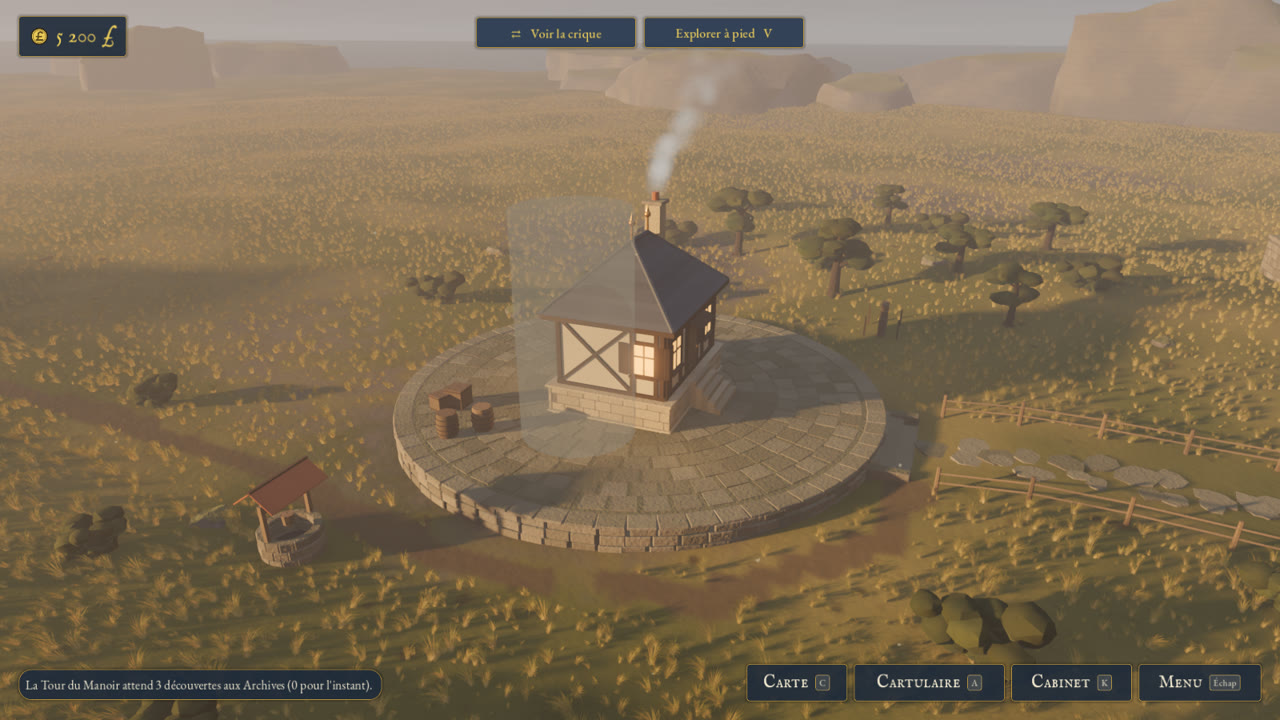
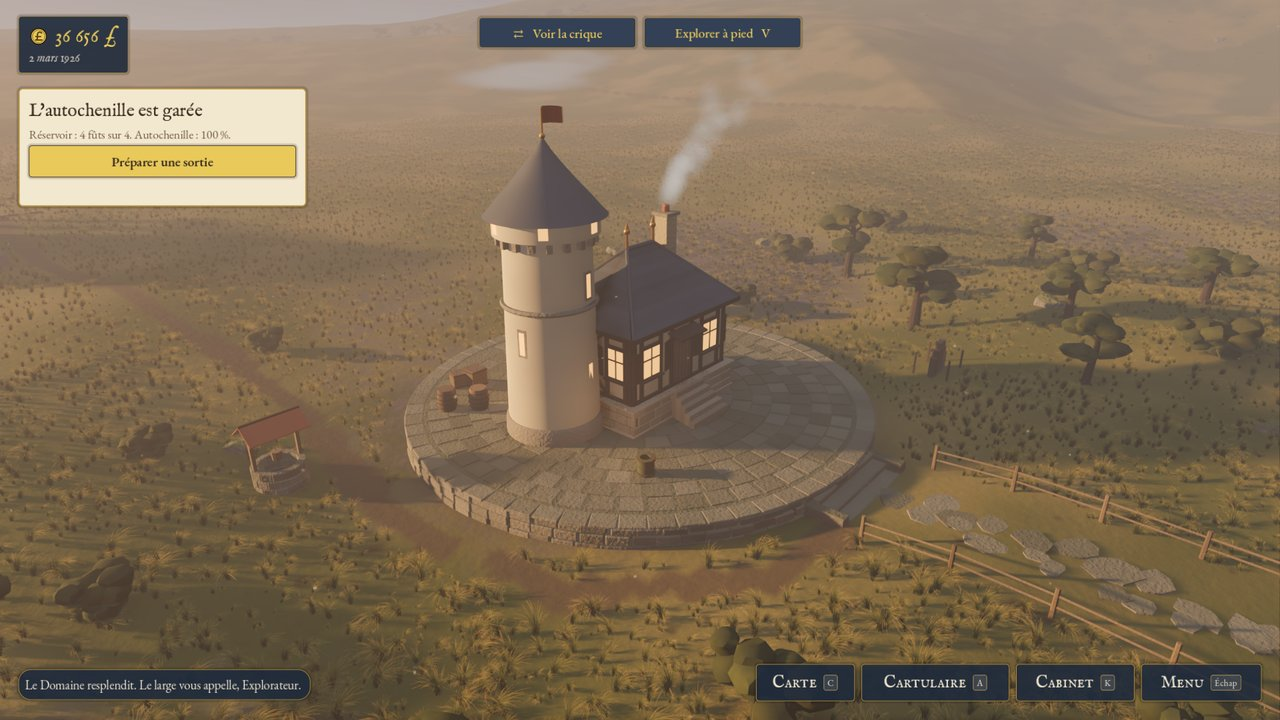
Les images de la présentation refaites avec la 0.10 : l'écran-titre, l'anse et sa Tour, la crique, la Carte

diff --git a/README.md b/README.md
@@ -55,7 +55,7 @@ antiquaire, s'installe dans une anse avec une tente et quelques caisses.
 | | |
 |:-:|:-:|
 | ![L'anse et le logis](images/l-anse.jpg) | ![La crique et l'Hippocampe](images/la-crique.jpg) |
-| *L'anse et le logis* | *La crique, le ponton et l'Hippocampe* |
+| *L'anse, le logis et la Tour du manoir* | *La crique, le ponton et l'Hippocampe* |
 | ![Le Cartulaire](images/le-cartulaire.jpg) | ![La Carte de l'ancêtre](images/la-carte.jpg) |
 | *Le Cartulaire : le journal de bord de l'explorateur* | *La Carte de l'ancêtre* |
 | ![L'île, vue de l'intérieur](images/l-ile.jpg) | ![Le défilé des Pierres debout](images/les-pierres.jpg) |
